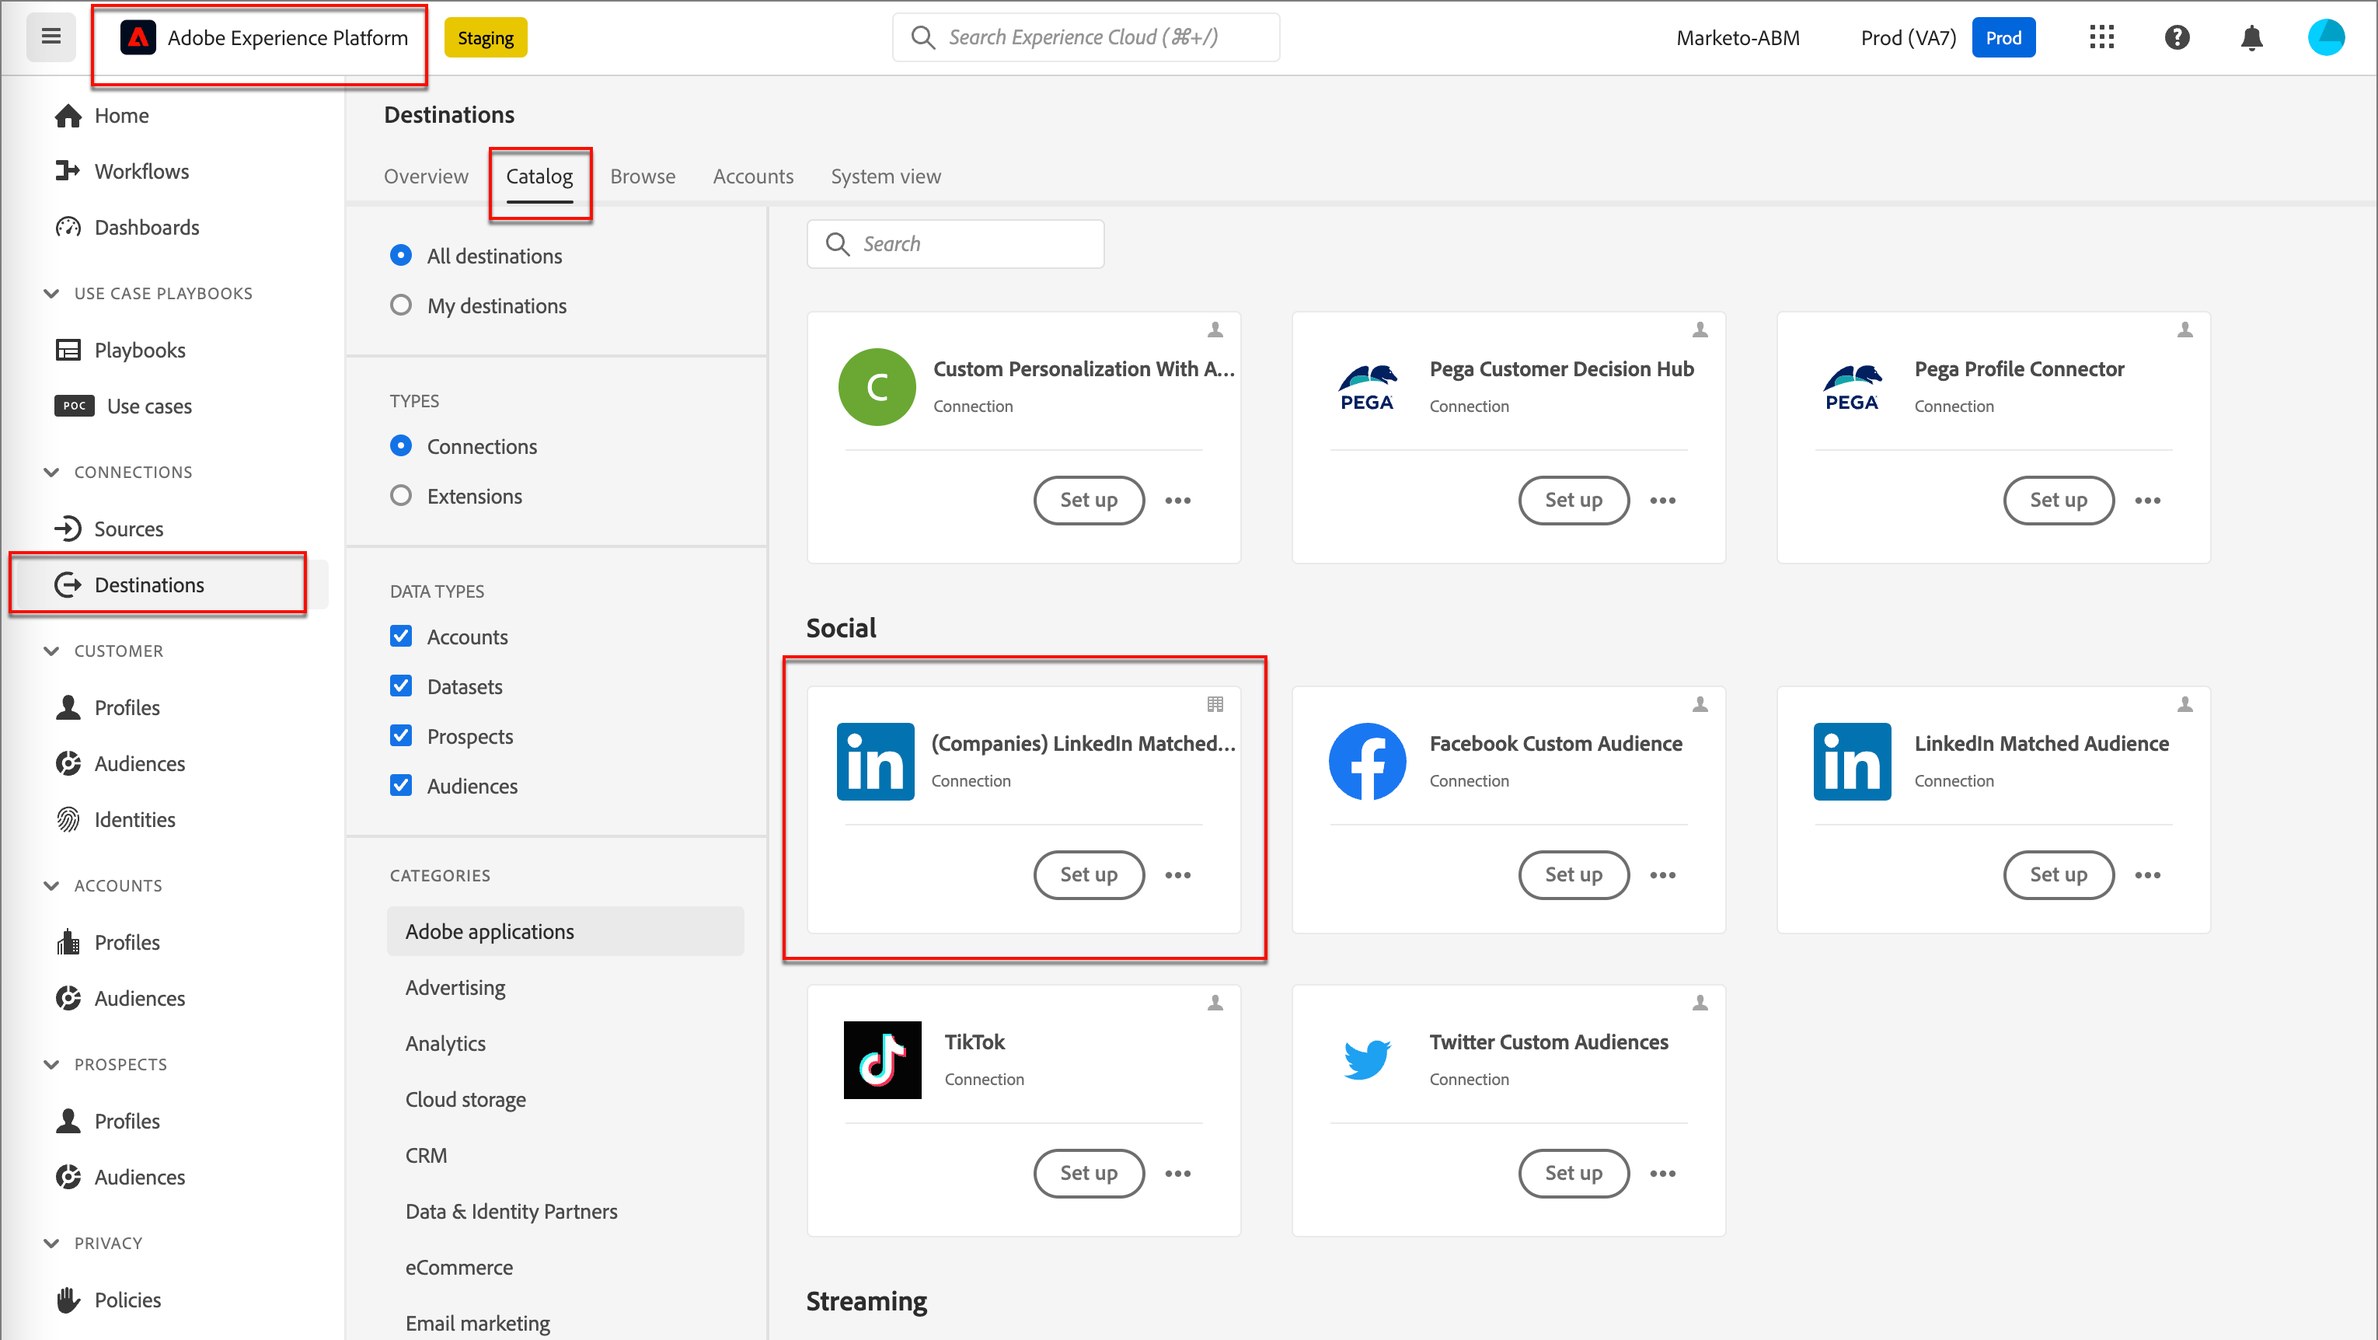
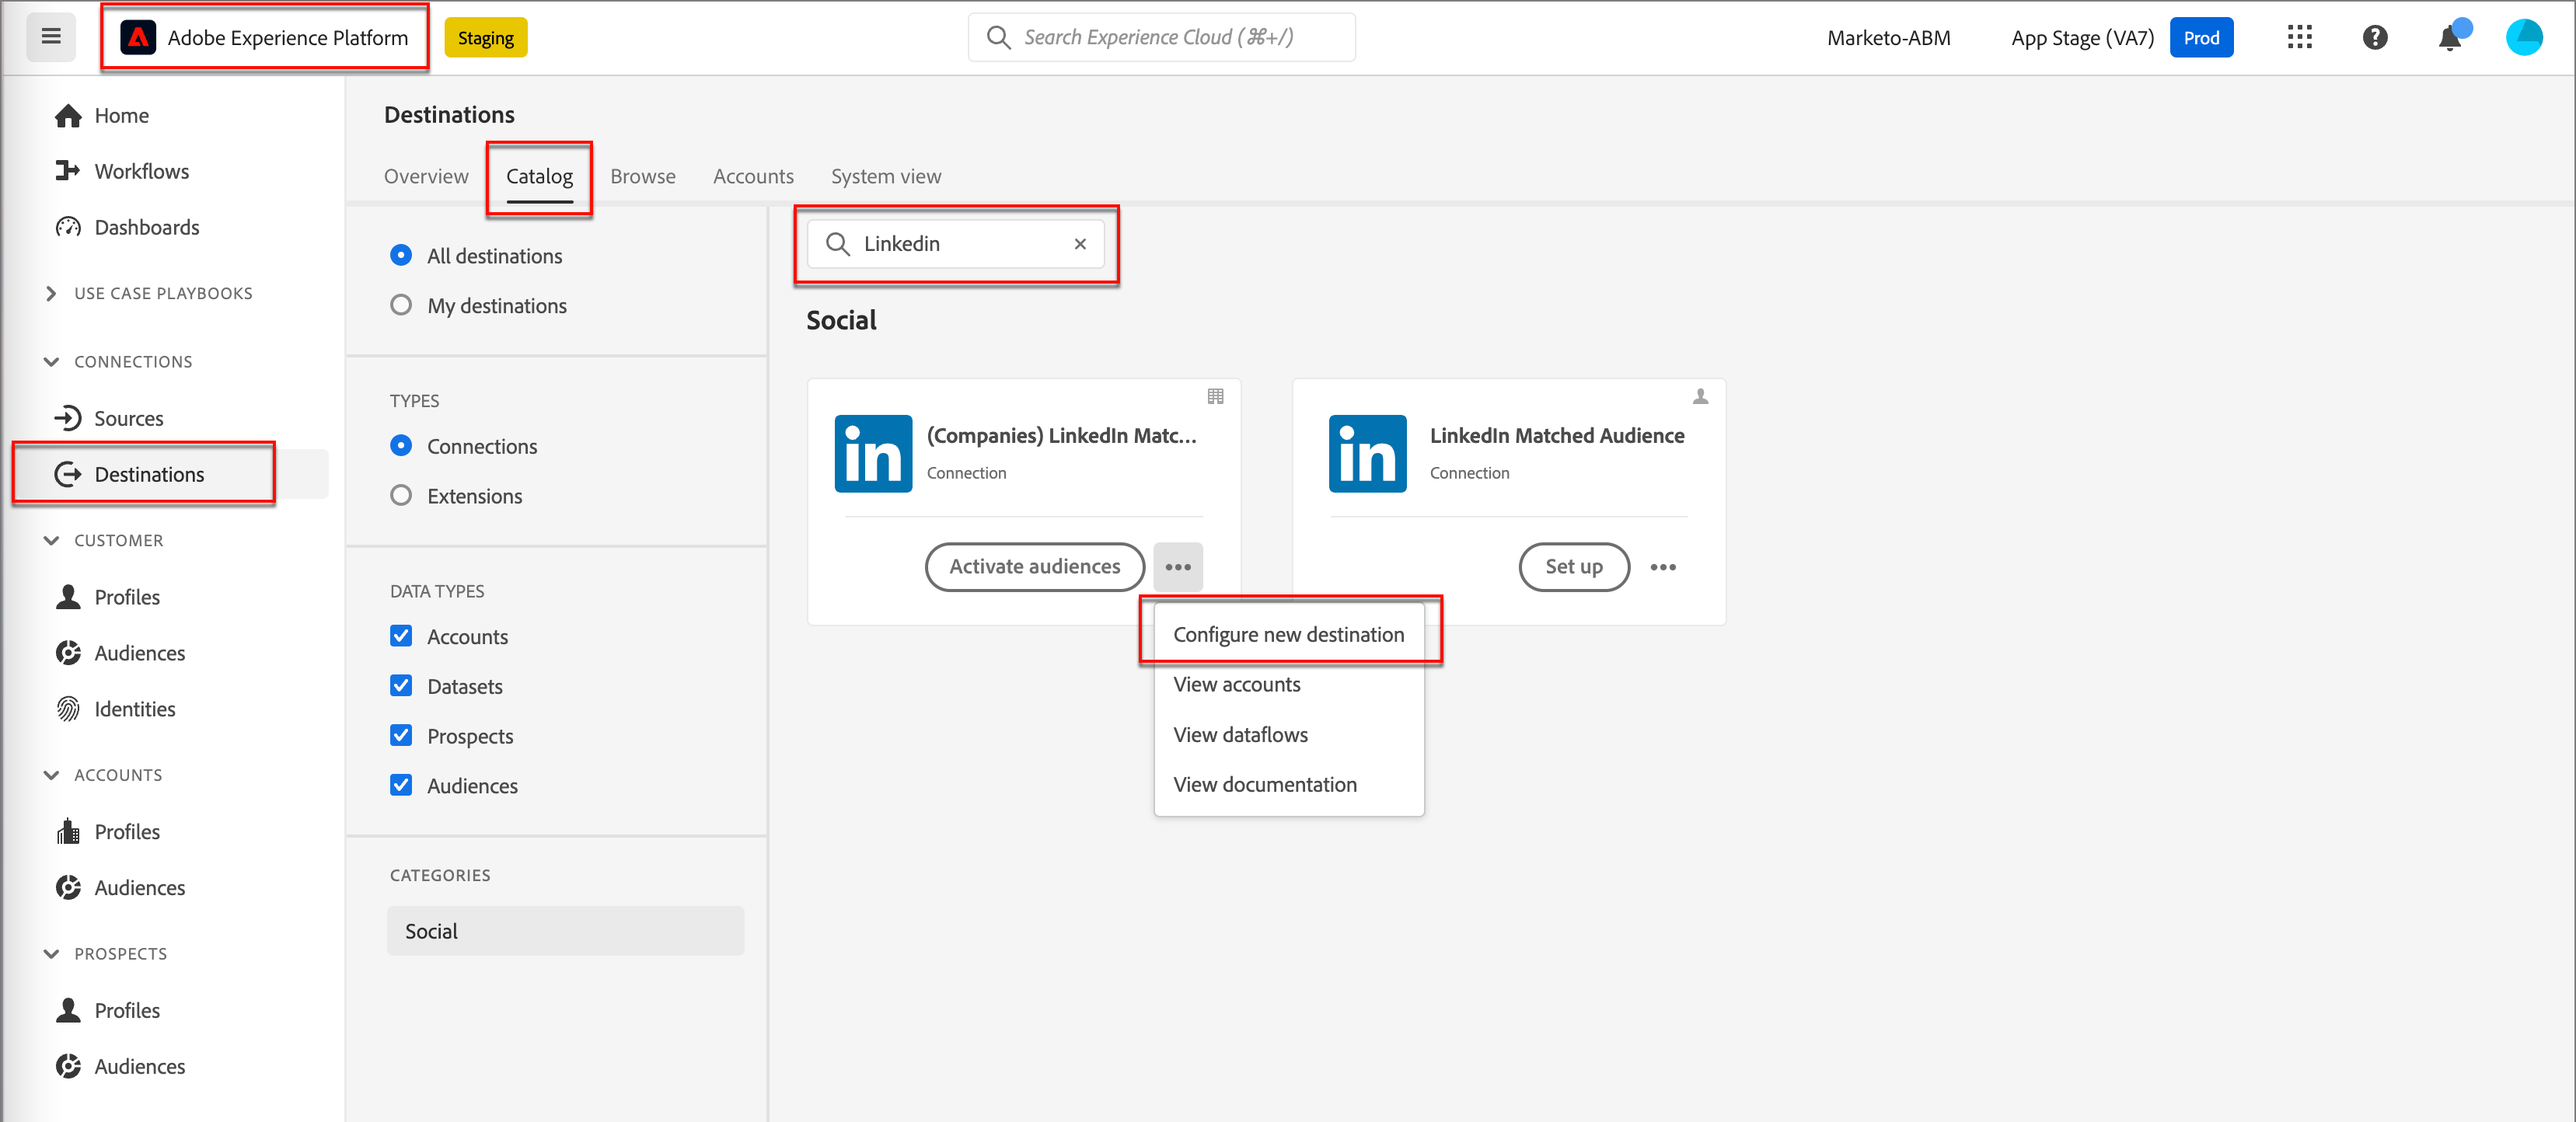
Updates for LinkedIn destination connections

diff --git a/help/user/data/linkedin-account-matched-audiences.md b/help/user/data/linkedin-account-matched-audiences.md
@@ -19,15 +19,29 @@ Before you initiate a dataflow from Journey Optimizer B2B Edition, you must have
 
 1. In Experience Platform, go to **[!UICONTROL Connections]** > **[!UICONTROL Destinations]** in the left navigation and select the **[!UICONTROL Catalog]** tab.
 
-1. In the catalog, locate the **[!UICONTROL (Companies) LinkedIn Matched Audience]** connector and click **[!UICONTROL Set Up]**.
+1. In the catalog, locate the **[!UICONTROL (Companies) LinkedIn Matched Audience]** connector.
+
+   >[!TIP]
+   >
+   >You can quickly find the connector by entering `LinkedIn` in the search box.
+
+1. In the connector card, click the _More_ (**...**) icon and choose **[!UICONTROL Configure new destination]**.
 
    ![Access the (Companies) LinkedIn Matched Audience connector](./assets/aep-destinations-catalog-linkedin.png){width="800" zoomable="yes"}
 
-1. Select **[!UICONTROL New Account]** > **[!UICONTROL Connect to LinkedIn]**.
+1. Select **[!UICONTROL New Account]** and click **[!UICONTROL Connect to destination]**.
+
+   ![Connect a new LinkedIn account](./assets/aep-destinations-catalog-linkedin-new-account.png){width="500"}
 
 1. Provide your LinkedIn credentials and sign in.
 
-   The LinkedIn account is connected as a destination.
+   After authentication, the LinkedIn account is connected as a destination in Experience Platform. 
+
+   ![Account connection confirmation is displayed](./assets/aep-destinations-catalog-linkedin-connected.png){width="400"}
+
+   >[!IMPORTANT]
+   >
+   >At this point, **do not** enter the _[!UICONTROL Destination details]_. Only the connection is needed.
 
 ## Update the account details
    
@@ -37,11 +51,11 @@ The name and description for the LinkedIn account are visible for buying groups 
 
 1. For the new account that you created, click the _More_ (**...**) menu and choose **[!UICONTROL Edit details]**.
 
-    ![Edit account details](./assets/aep-destinations-accounts-edit-details.png){width="800" zoomable="yes"}
+   ![Edit account details](./assets/aep-destinations-accounts-edit-details.png){width="800" zoomable="yes"}
    
 1. In the dialog, update the name and description.
 
-    ![Edit the name and description](./assets/destinations-linkedin-account-edit-details-dialog.png){width="500"}
+   ![Edit the name and description](./assets/destinations-linkedin-account-edit-details-dialog.png){width="500"}
 
 1. Click **[!UICONTROL Save]**.
 
